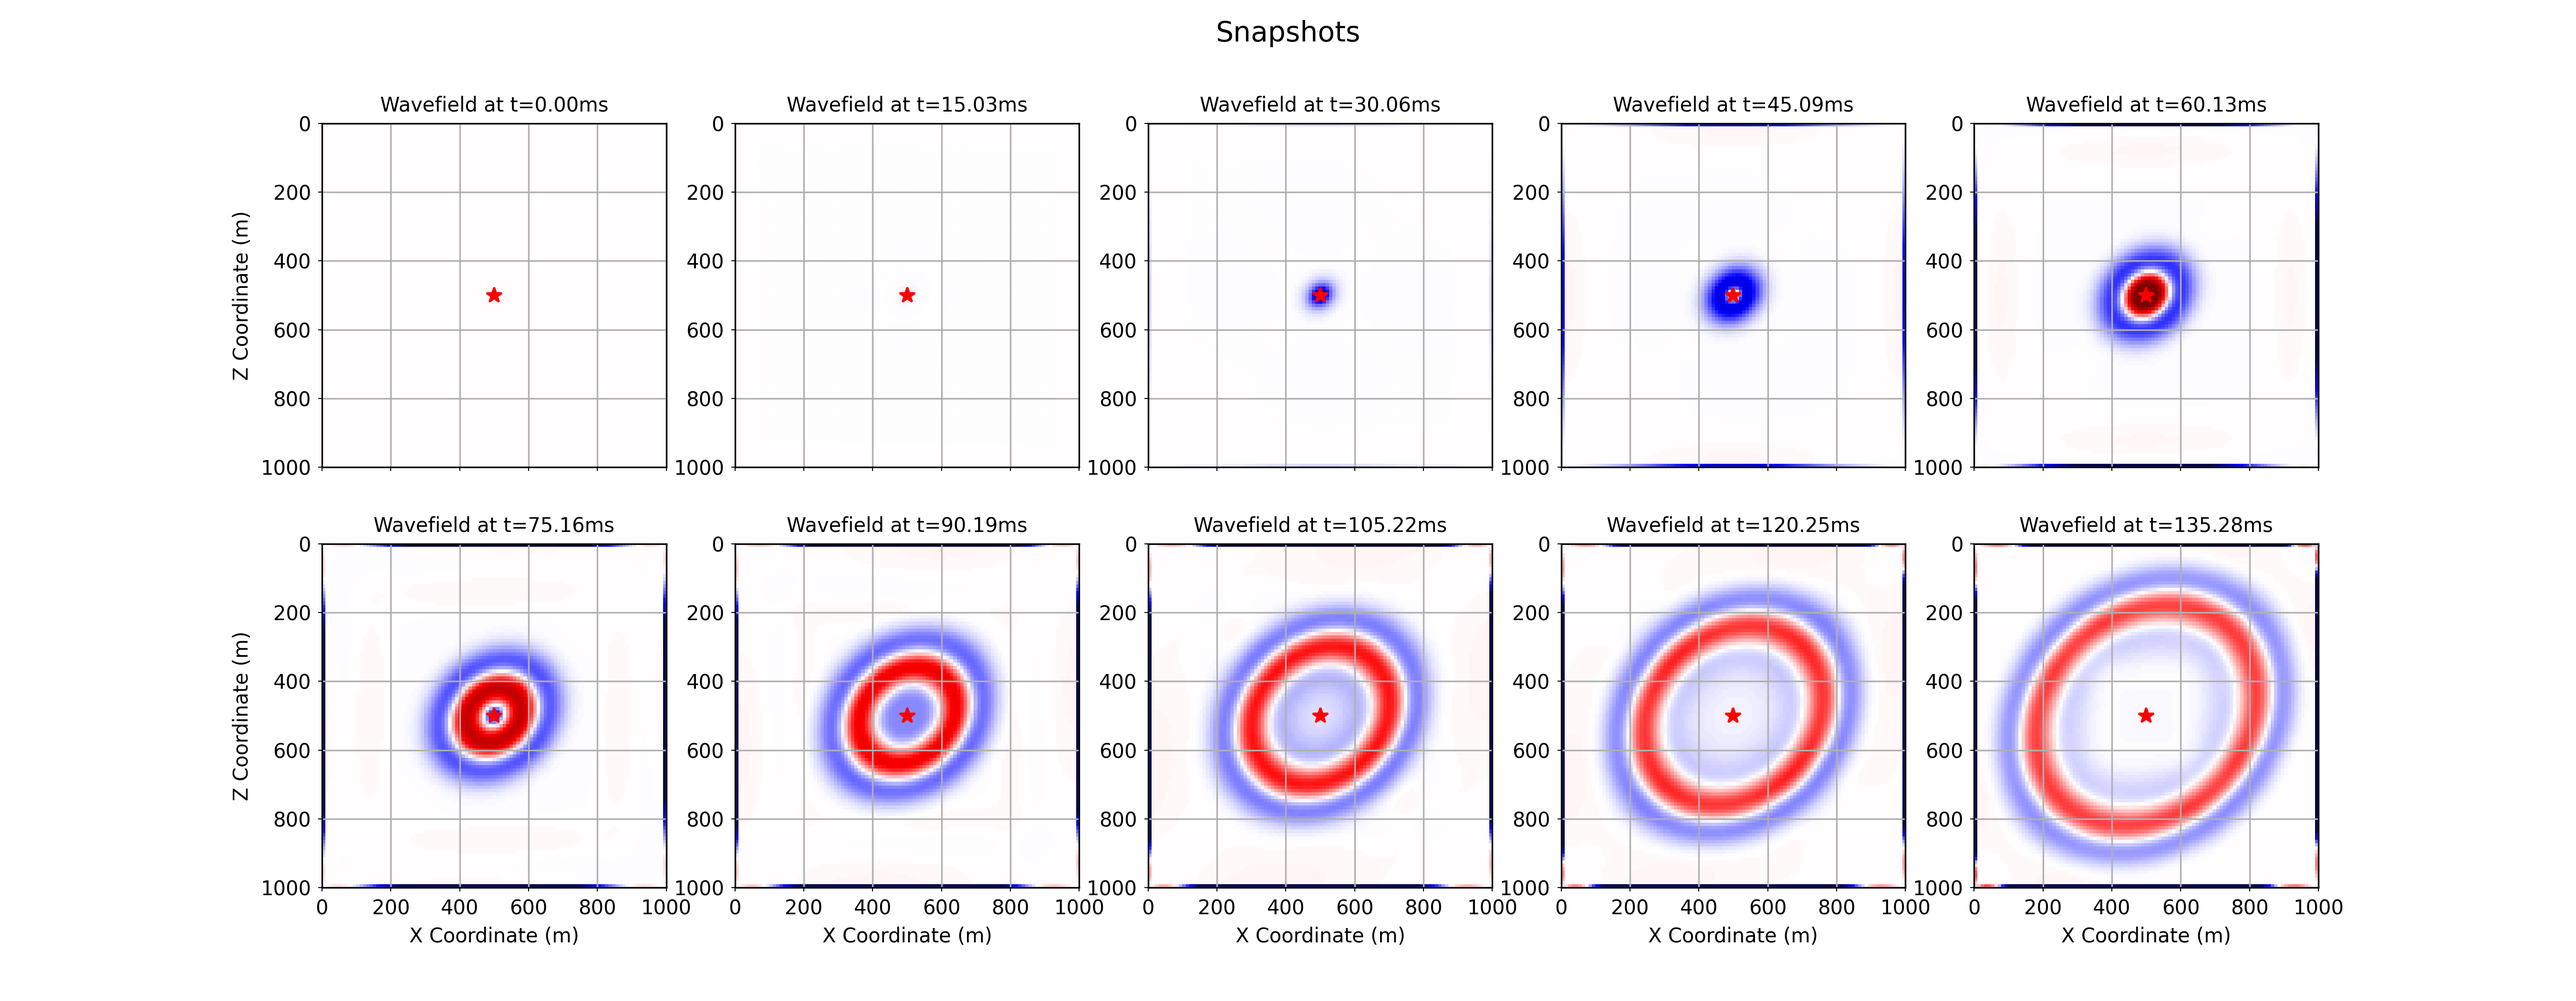
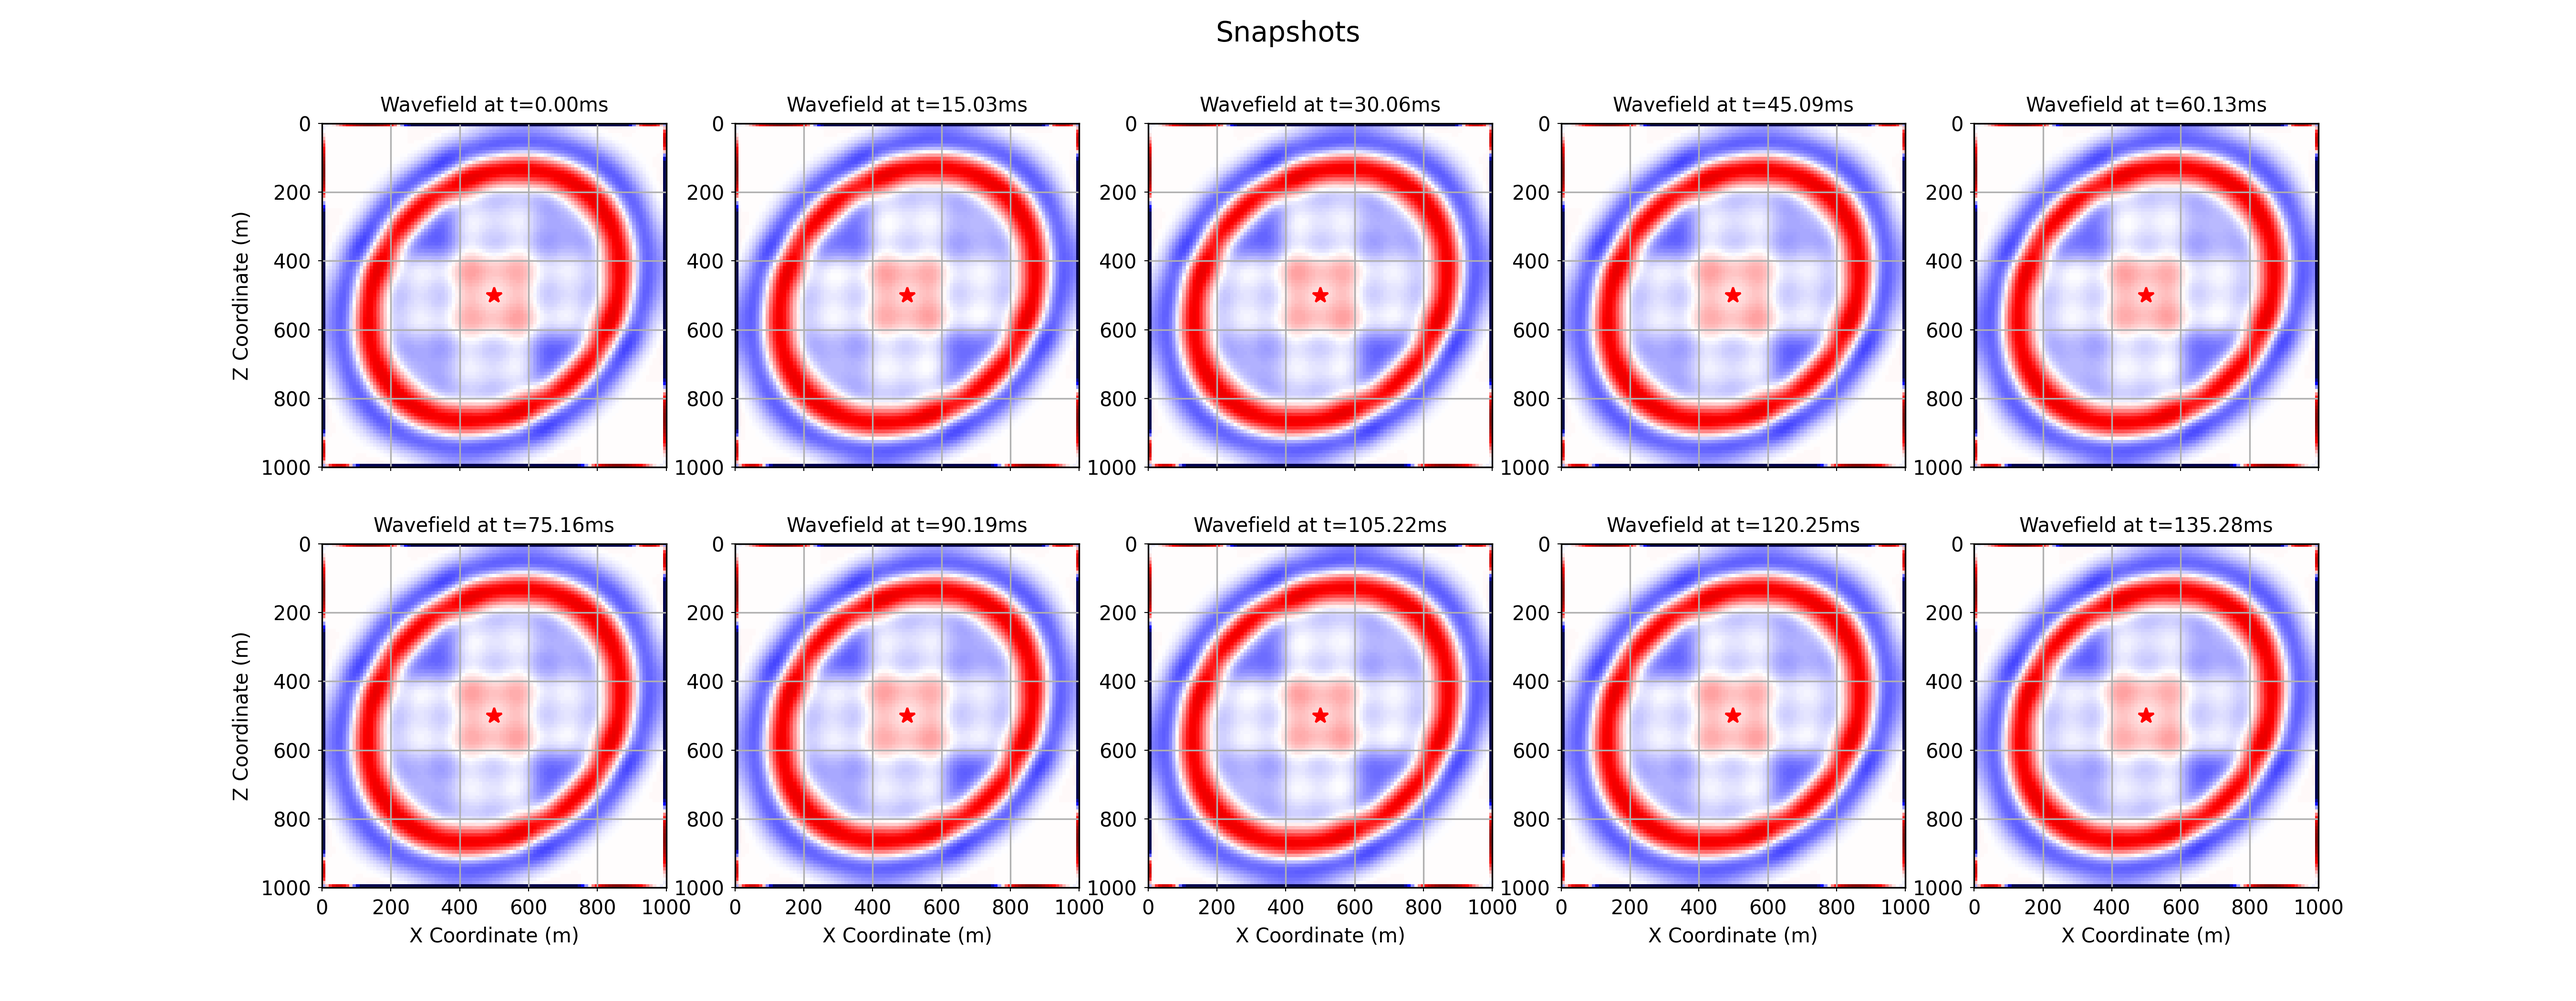
test with damping etc

diff --git a/Chapter3/seismic/tti_pure_qp_petsc.py b/Chapter3/seismic/tti_pure_qp_petsc.py
@@ -1,10 +1,18 @@
 import numpy as np
+import os
 from devito import (Function, TimeFunction, cos, sin, solve,
                     Eq, Operator, configuration, norm, SubDomain, switchconfig)
 from examples.seismic import TimeAxis, RickerSource, Receiver, demo_model
 from matplotlib import pyplot as plt
 
-from devito.petsc import petscsolve
+from devito.petsc import petscsolve, EssentialBC
+
+from devito.petsc.initialize import PetscInitialize
+
+configuration['compiler'] = 'custom'
+os.environ['CC'] = 'mpicc'
+
+PetscInitialize()
 
 
 # Subdomains to implement BCs
@@ -56,7 +64,7 @@ origin  = (0.,0.)
 nbl = 0  # number of pad points
 
 model = demo_model('layers-tti', spacing=spacing, space_order=8,
-                   shape=shape, nbl=nbl, nlayers=1, subdomains=subdomains)
+                   shape=shape, nbl=nbl, nlayers=1, subdomains=subdomains, dtype=np.float64)
 
 # initialize Thomsem parameters to those used in Mu et al., (2020)
 model.update('vp', np.ones(shape)*3.6) # km/s
@@ -93,6 +101,7 @@ dvalue = min(spacing)
 # Compute the dt and set time range
 t0 = 0.   #  Simulation time start
 tn = 150. #  Simulation time end (0.15 second = 150 msec)
+# tn = 135.
 dt = (dvalue/(np.pi*vmax))*np.sqrt(1/(1+etamax*(max_cos_sin)**2)) # eq. above (cell 3)
 time_range = TimeAxis(start=t0,stop=tn,step=dt)
 print("time_range; ", time_range)
@@ -112,26 +121,52 @@ term5_p = (-delta*sin4theta - 4*epsilon*sin2theta*sintheta**2)*((q.dy3).dx)
 stencil_p = solve(m*p.dt2 - (term1_p + term2_p + term3_p + term4_p + term5_p), p.forward)
 update_p = Eq(p.forward, stencil_p)
 
-# Poisson eq. (following notebook 6 from CFD examples)
-b = Function(name='b', grid=model.grid, space_order=2)
-pp = TimeFunction(name='pp', grid=model.grid, space_order=2)
 
 # Create stencil and boundary condition expressions
 x, z = model.grid.dimensions
 t = model.grid.stepping_dim
 
-update_q = Eq( pp[t+1,x,z],((pp[t,x+1,z] + pp[t,x-1,z])*z.spacing**2 + (pp[t,x,z+1] + pp[t,x,z-1])*x.spacing**2 -
-         b[x,z]*x.spacing**2*z.spacing**2) / (2*(x.spacing**2 + z.spacing**2)))
+
+bc_p = [Eq(p[t+1,x, 0], 0.)]
+bc_p += [Eq(p[t+1,x, shape[1]+2*nbl-1], 0.)]
+bc_p += [Eq(p[t+1,0, z], 0.)]
+bc_p += [Eq(p[t+1,shape[0]-1+2*nbl, z], 0.)]
 
 
-bc = [Eq(pp.forward, 0, subdomain=model.grid.subdomains['subtop'])]
-bc += [Eq(pp.forward, 0, subdomain=model.grid.subdomains['subbottom'])]
-bc += [Eq(pp.forward, 0, subdomain=model.grid.subdomains['subleft'])]
-bc += [Eq(pp.forward, 0, subdomain=model.grid.subdomains['subright'])]
+bc = [EssentialBC(q, 0., subdomain=model.grid.subdomains['subtop'])]
+bc += [EssentialBC(q, 0., subdomain=model.grid.subdomains['subbottom'])]
+bc += [EssentialBC(q, 0., subdomain=model.grid.subdomains['subleft'])]
+bc += [EssentialBC(q, 0., subdomain=model.grid.subdomains['subright'])]
 
 
-update_q = Eq(q.laplace, p)
-petsc = petscsolve([update_q, bc], target=q)
+damping = Function(name="damping", grid=model.grid, space_order=2)
+
+nx, ny = damping.shape
+taper_width = 10
+min_val, max_val = 0.97, 1.0
+
+# Coordinates
+x = np.arange(nx)
+y = np.arange(ny)
+X, Y = np.meshgrid(x, y, indexing="ij")
+
+# Distance to nearest edge (for tapering)
+dist = np.minimum.reduce([X, nx-1-X, Y, ny-1-Y])
+
+# Normalized [0,1] distance into taper region
+mask = np.clip(dist / taper_width, 0, 1)
+
+# Cosine taper profile
+taper = min_val + (max_val - min_val) * 0.5 * (1 - np.cos(np.pi * mask))
+
+damping.data[:] = taper
+
+
+update_q = Eq(q.laplace, p.forward, subdomain=model.grid.interior)
+petsc = petscsolve([update_q] + bc, target=q, solver_parameters={'ksp_type': 'cg'}, options_prefix='poisson')
+
+
+damping_eqn = Eq(q, damping*q, subdomain=model.grid.interior)
 
 
 # set source and receivers
@@ -152,12 +187,16 @@ rec_term = rec.interpolate(expr=p.forward)
 # oppres=Operator([update_q] + bc)
 
 
-op_all = Operator([update_p] + src_term + rec_term + [update_q] + bc)
+# op_all = Operator([update_p] + src_term + rec_term + [update_q] + bc)
 
-with switchconfig(language='petsc'):
-    op_all = Operator([update_p] + src_term + rec_term + [update_q] + bc)
-
+with switchconfig():
+    op_all = Operator([update_p] + src_term + rec_term + [petsc], language='petsc')
+    # op_all = Operator([update_p] + src_term + rec_term + [petsc] + [damping_eqn], language='petsc')
+    # op_all = Operator([update_p, petsc], language='petsc')
+    # print(op_all.ccode)
     op_all(time_m=0, time_M=time_range.num-2, dt=dt)
+    # op_all(time_m=0, time_M=100, dt=dt)
+
 
 
 
@@ -167,7 +206,7 @@ with switchconfig(language='petsc'):
 
 
 # NBVAL_IGNORE_OUTPUT
-psave =np.empty ((time_range.num,model.grid.shape[0],model.grid.shape[1]))
+# psave =np.empty ((time_range.num,model.grid.shape[0],model.grid.shape[1]))
 niter_poisson = 1200
 
 
@@ -203,16 +242,20 @@ plt_extent = [origin_pad[0], origin_pad[0] + extent_pad[0],
 
 # Plot the wavefields, each normalized to scaled maximum of last time step
 kt = (time_range.num - 2) - 1
-amax = 0.05 * np.max(np.abs(psave[kt,:,:]))
+amax = 0.05 * np.max(np.abs(p.data[kt,:,:]))
 
 nsnaps = 10
 factor = round(time_range.num/nsnaps)
 
+
+
+# from IPython import embed; embed()
 fig, axes = plt.subplots(2, 5, figsize=(18, 7), sharex=True)
 fig.suptitle("Snapshots", size=14)
 for count, ax in enumerate(axes.ravel()):
     snapshot = factor*count
-    ax.imshow(np.transpose(q[snapshot,:,:]), cmap="seismic",
+    # from IPython import embed; embed()
+    ax.imshow(np.transpose(p.data[snapshot,:,:]), cmap="seismic",
                vmin=-amax, vmax=+amax, extent=plt_extent)
     ax.plot(model.domain_size[0]* .5, model.domain_size[1]* .5, \
          'red', linestyle='None', marker='*', markersize=8, label="Source")

diff --git a/Chapter3/seismic/tti_pure_qp_original.py b/Chapter3/seismic/tti_pure_qp_original.py
@@ -62,6 +62,47 @@ print("time_range; ", time_range)
 p = TimeFunction(name="p", grid=model.grid, time_order=2, space_order=2)
 q = Function(name="q", grid=model.grid, space_order=8)
 
+damping = Function(name="damping", grid=model.grid, space_order=2)
+
+nx, ny = damping.shape
+taper_width = 10
+min_val, max_val = 0.97, 1.0
+
+# Coordinates
+x = np.arange(nx)
+y = np.arange(ny)
+X, Y = np.meshgrid(x, y, indexing="ij")
+
+# Distance to nearest edge (for tapering)
+dist = np.minimum.reduce([X, nx-1-X, Y, ny-1-Y])
+
+# Normalized [0,1] distance into taper region
+mask = np.clip(dist / taper_width, 0, 1)
+
+# Cosine taper profile
+taper = min_val + (max_val - min_val) * 0.5 * (1 - np.cos(np.pi * mask))
+
+damping.data[:] = taper
+
+# from IPython import embed; embed()
+
+fig, ax = plt.subplots(figsize=(6, 6))
+
+# Plot damping
+cax = ax.imshow(damping.data[:], vmin=0, vmax=1, cmap="viridis", origin="lower")
+
+# Add colorbar
+cbar = fig.colorbar(cax, ax=ax, fraction=0.046, pad=0.04)
+cbar.set_label("Damping Value")
+
+# Add labels & title
+ax.set_title("Damping Field with Cosine Taper")
+ax.set_xlabel("X grid index")
+ax.set_ylabel("Y grid index")
+
+# Save to file
+plt.savefig("damping.png", dpi=300, bbox_inches="tight")
+
 # Main equations
 term1_p = (1 + 2*delta*(sintheta**2)*(costheta**2) + 2*epsilon*costheta**4)*q.dx4
 term2_p = (1 + 2*delta*(sintheta**2)*(costheta**2) + 2*epsilon*sintheta**4)*q.dy4
@@ -82,6 +123,9 @@ t = model.grid.stepping_dim
 
 update_q = Eq( pp[t+1,x,z],((pp[t,x+1,z] + pp[t,x-1,z])*z.spacing**2 + (pp[t,x,z+1] + pp[t,x,z-1])*x.spacing**2 -
          b[x,z]*x.spacing**2*z.spacing**2) / (2*(x.spacing**2 + z.spacing**2)))
+
+# update_q = Eq( pp[t+1,x,z],damping*(((pp[t,x+1,z] + pp[t,x-1,z])*z.spacing**2 + (pp[t,x,z+1] + pp[t,x,z-1])*x.spacing**2 -
+#          b[x,z]*x.spacing**2*z.spacing**2) / (2*(x.spacing**2 + z.spacing**2))))
 
 bc = [Eq(pp[t+1,x, 0], 0.)]
 bc += [Eq(pp[t+1,x, shape[1]+2*nbl-1], 0.)]
@@ -116,7 +160,7 @@ print(optime.ccode)
 
 # NBVAL_IGNORE_OUTPUT
 psave =np.empty ((time_range.num,model.grid.shape[0],model.grid.shape[1]))
-niter_poisson = 1200
+niter_poisson = 4200
 
 
 # from IPython import embed; embed()
@@ -146,7 +190,8 @@ plt_extent = [origin_pad[0], origin_pad[0] + extent_pad[0],
 
 # Plot the wavefields, each normalized to scaled maximum of last time step
 kt = (time_range.num - 2) - 1
-amax = 0.05 * np.max(np.abs(psave[kt,:,:]))
+# amax = 0.05 * np.max(np.abs(psave[kt,:,:]))
+amax = 0.05 * np.max(np.abs(p.data[kt,:,:]))
 
 nsnaps = 10
 factor = round(time_range.num/nsnaps)
@@ -155,7 +200,9 @@ fig, axes = plt.subplots(2, 5, figsize=(18, 7), sharex=True)
 fig.suptitle("Snapshots", size=14)
 for count, ax in enumerate(axes.ravel()):
     snapshot = factor*count
-    ax.imshow(np.transpose(psave[snapshot,:,:]), cmap="seismic",
+    # ax.imshow(np.transpose(psave[snapshot,:,:]), cmap="seismic",
+    #            vmin=-amax, vmax=+amax, extent=plt_extent)
+    ax.imshow(np.transpose(p.data[snapshot,:,:]), cmap="seismic",
                vmin=-amax, vmax=+amax, extent=plt_extent)
     ax.plot(model.domain_size[0]* .5, model.domain_size[1]* .5, \
          'red', linestyle='None', marker='*', markersize=8, label="Source")
